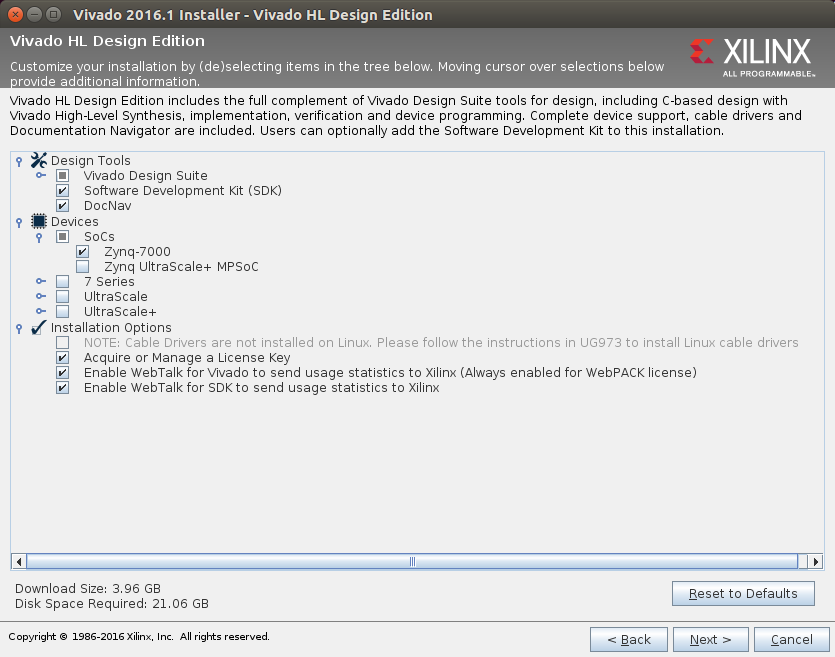
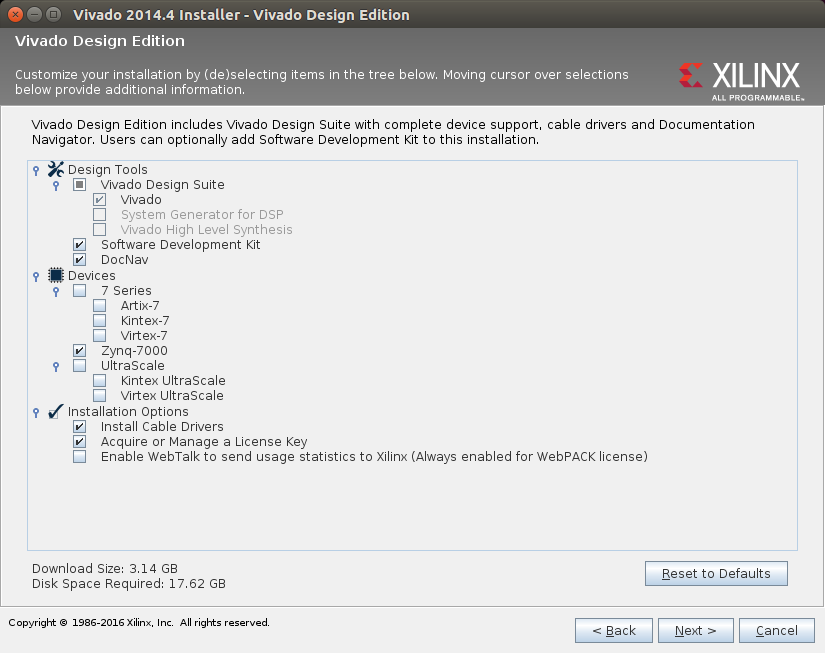
Changed to 2014.4

diff --git a/setting-up-vivado/setting-up-vivado.md b/setting-up-vivado/setting-up-vivado.md
@@ -1,16 +1,16 @@
 # Setting up Vivado on Linux
 
-Start by downloading the lastest Linux version of Vivado from [Xilinx's website](http://www.xilinx.com/support/download.html). The current version at the time of writing this is Vivado 2016.1. Currently, Xilinx provides web installers, so the initial download is fairly small.
+Start by downloading the lastest Linux version 2014.4 of Vivado from [Xilinx's website](http://www.xilinx.com/support/download.html). Currently, Xilinx provides web installers, so the initial download is fairly small.
 
 Once downloaded the file must be made executable and then installed.
 
 ```bash
 cd ~/Downloads
-chmod +x Xilinx_Vivado_SDK_2016.1_0409_1_Lin64.bin
-sudo ./Xilinx_Vivado_SDK_2016.1_0409_1_Lin64.bin
+chmod +x Xilinx_Vivado_SDK_2014.4_1119_1_Lin64.bin
+sudo ./Xilinx_Vivado_SDK_2014.4_1119_1_Lin64.bin
 ```
 
-Once the installation is started, make sure include the Software development kit and DocNav. Since, the Zybo is a Zynq-7000 you only need to select Zynq-7000 in the devices section.
+Once the installation is started, make sure include the Software development kit, DocNav, and install the cable drivers. Since, the Zybo is a Zynq-7000 you only need to select Zynq-7000 in the devices section.
 
 ![Installation tree](images/installer_1.png)
 
@@ -20,32 +20,34 @@ In Linux it is a good idea to install user applications inside the opt folder. N
 
 Click yes, if it asks you to create the folder. Continue with the installation until finished.
 
-After installation is complete, the Vivado License Manager will pop up. To create a license go to Xilinx's [license managment page](http://www.xilinx.com/getlicense). Xilinx also offers free WebPack licenses. Once you fill out the licensing information, Xilinx will send you an email with the license. Download the license from the email and follow the instructions in the email to complete to load the license.
+After the installation is complete, the Vivado License Manager will pop up. Close it, because it will try to put the license in your root directory.
 
 Next, you need to install the cable drivers for the Zybo.
 
 ```bash
-cd /opt/Xilinx/Vivado/2016.1/data/xicom/cable_drivers/lin64/install_script/install_drivers
+cd /opt/Xilinx/Vivado/2014.4/data/xicom/cable_drivers/lin64/install_script/install_drivers
 sudo ./install_drivers
 ```
 You also need to source Vivado's settings.
 
 ```bash
-source /opt/Xilinx/Vivado/2016.1/settings64.sh
+source /opt/Xilinx/Vivado/2014.4/settings64.sh
 ```
 
-Note, you should add the line ```source /opt/Xilinx/Vivado/2016.1/settings64.sh``` to your terminal's rc file (normally ~/.bashrc). So that the command is run everytime you use your terminal.
+Note, you should add the line ``source /opt/Xilinx/Vivado/2014.4/settings64.sh`` to your terminal's rc file (normally ~/.bashrc). So that the command is run everytime you use your terminal.
 
-You might also need to change the ~/.Xilinx folders' group and owner for Vivado to start correctly. 
+You might also need to change the ~/.Xilinx folder's group and owner for Vivado to start correctly. 
 
 ```bash
 sudo chgrp -R <your-user-name> ~/.Xilinx
 sudo chown -R <your-user-name> ~/.Xilinx
 ```
 
-To start Vivado type ```vivado &``` in a terminal. Make sure to start Vivado in a directory you are able to write to, as Vivado creates log files in the directory you start it from.
+Now, we will include the license from Xilinx. To start the license manager type ``vlm`` into a terminal. To create a license go to Xilinx's [license managment page](http://www.xilinx.com/getlicense). Xilinx also offers free WebPack licenses. Once you fill out the licensing information, Xilinx will send you an email with the license. Download the license from the email and follow the instructions in the email to complete to load the license.
 
-If you want Vivado to start from the applications menu, you need to create a desktop file. The location for adding desktop entries is generally ```/usr/share/applications```
+To start Vivado type ``vivado &`` in a terminal. Make sure to start Vivado in a directory you are able to write to, as Vivado creates log files in the directory you start it from.
+
+If you want Vivado to start from the applications menu, you need to create a desktop file. The location for adding desktop entries is generally ``/usr/share/applications``
 
 ```bash
 cd /usr/share/applications
@@ -59,20 +61,20 @@ Add the following text to the file.
 Version=1.0
 Type=Application
 Name=Vivado
-Icon=/opt/Xilinx/Vivado/2016.1/doc/images/vivado_logo.ico
-Exec=/opt/Xilinx/Vivado/2016.1/bin/vivado
+Icon=/opt/Xilinx/Vivado/2014.4/doc/images/vivado_logo.ico
+Exec=/opt/Xilinx/Vivado/2014.4/bin/vivado
 Categories=Development;IDE;
 Terminal=false
 ```
 
 This should allow you to start Vivado from the applications menu, without having to go through a terminal.
 
-Next, you need to add Zybo board files to Vivado's boards directory. You can download the board files from [Digilent's github repo](https://github.com/Digilent/vivado-boards/). Click the download zip button to download a zip of the repo. Unzip the file and move it to ```/opt/Xilinx/Vivado/2016.1/data/boards/board_files```.
+Next, you need to add Zybo board files to Vivado's boards directory. You can download the board files from [Digilent's github repo](https://github.com/Digilent/vivado-boards/). Click the download zip button to download a zip of the repo. Unzip the folder and move it to ``/opt/Xilinx/Vivado/2014.4/data/boards/board_files``.
 
 ```bash
 cd ~/Downloads
 unzip vivado-boards-master.zip
-sudo cp vivado-boards-master/new/board_files/zybo /opt/Xilinx/Vivado/2016.1/data/boards/board_files
+sudo cp -r vivado-boards-master/old/board_files/zybo/ /opt/Xilinx/Vivado/2014.4/data/boards/board_parts/zynq/
 ```
 
-You can delete the vivado-boards-master folder and zip now.
+You can delete the vivado-boards-master folder and zip now. If you restart Vivado, Zybo should show up as an option under boards in the project creation menu.
